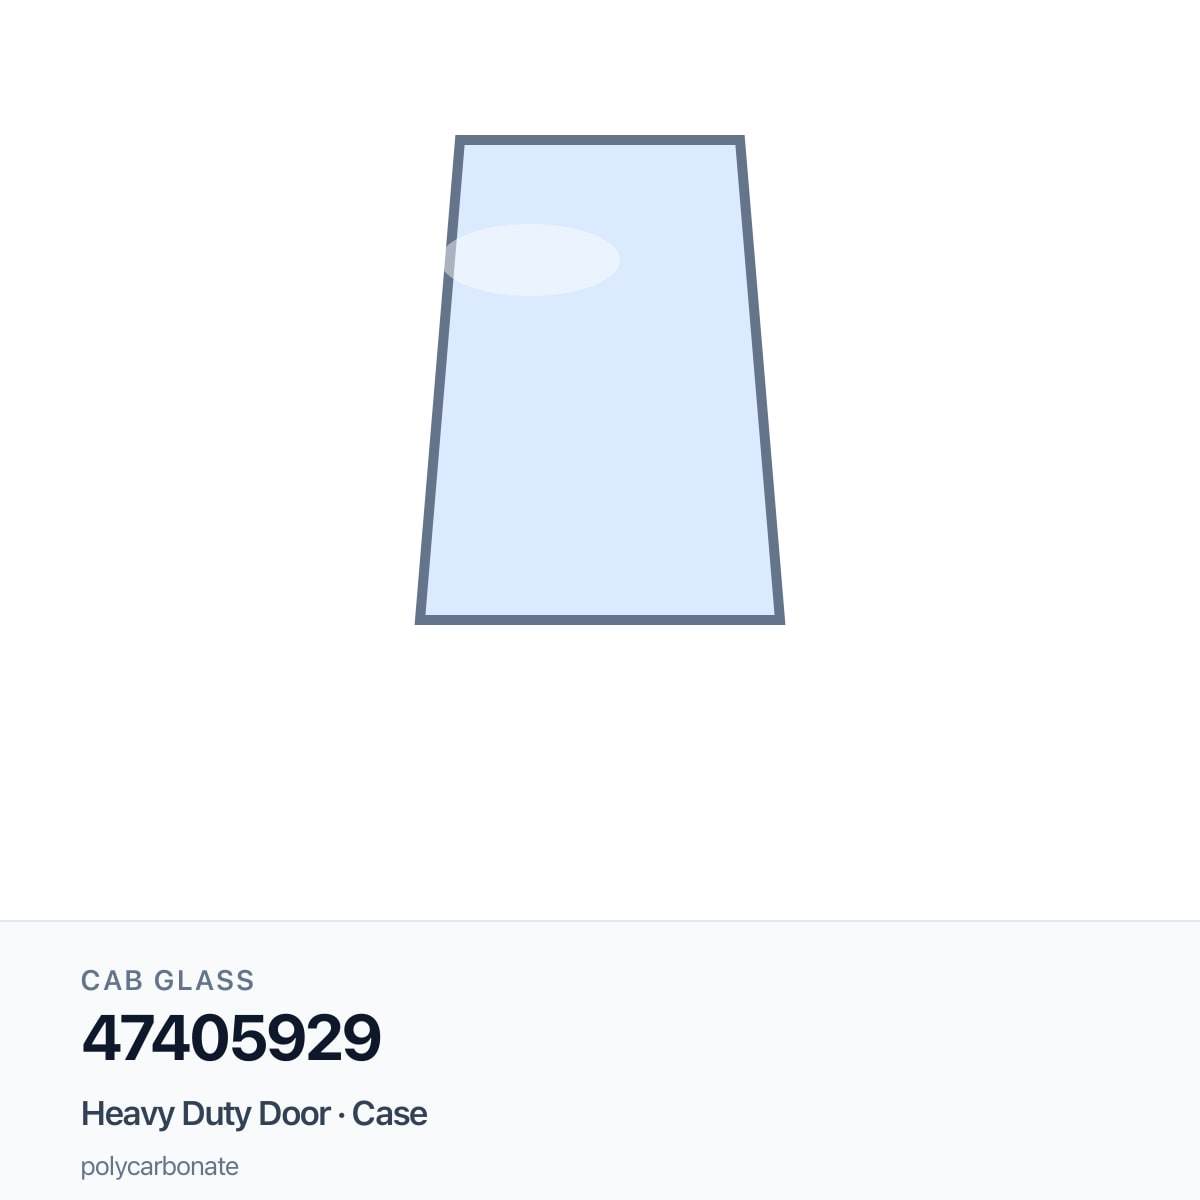
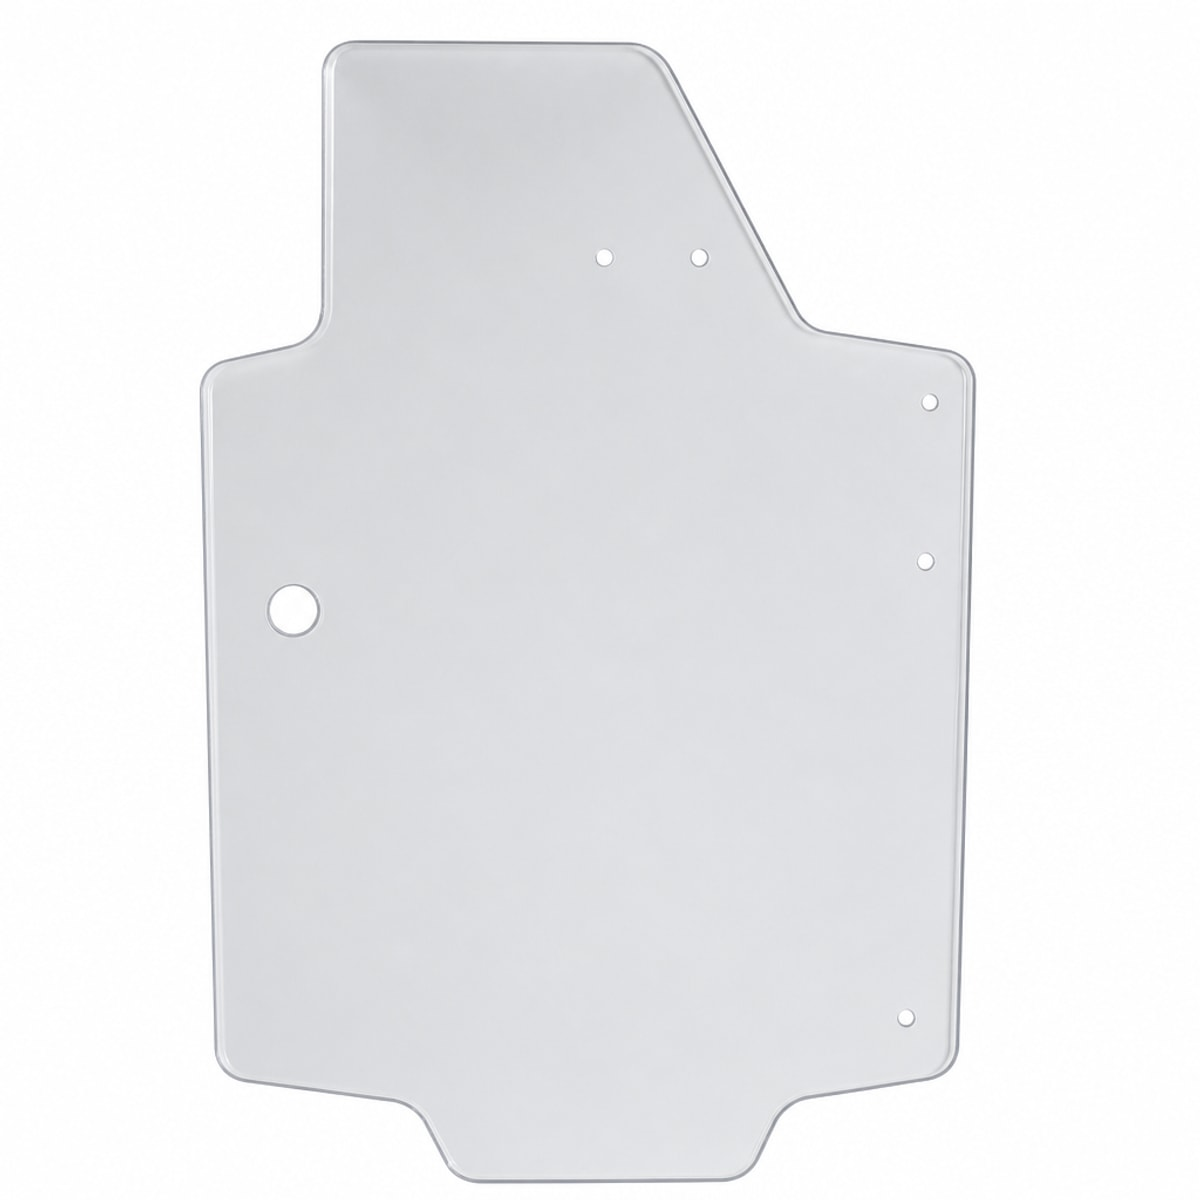
Publish camera, Toyota seat, and Case door glass product photos.
Enable Buy Now heroes for JCB 400/B1585 and Toyota 53780-U2100-71, refresh Case 47405929 polycarb door imagery, and 301 the camera stub slug.

diff --git a/next.config.js b/next.config.js
@@ -479,6 +479,12 @@ const baseConfig = {
         destination: '/parts/jcb-40-910659-seat-damper-kit',
         permanent: true
       },
+      // JCB camera kit: SEO slug upgrade from stub PN slug
+      {
+        source: '/parts/400B1585',
+        destination: '/parts/jcb-400-b1585-camera-kit',
+        permanent: true
+      },
       {
         source: '/insights/raymond-forklift-serial-number',
         destination: '/raymond-serial-number-lookup',
